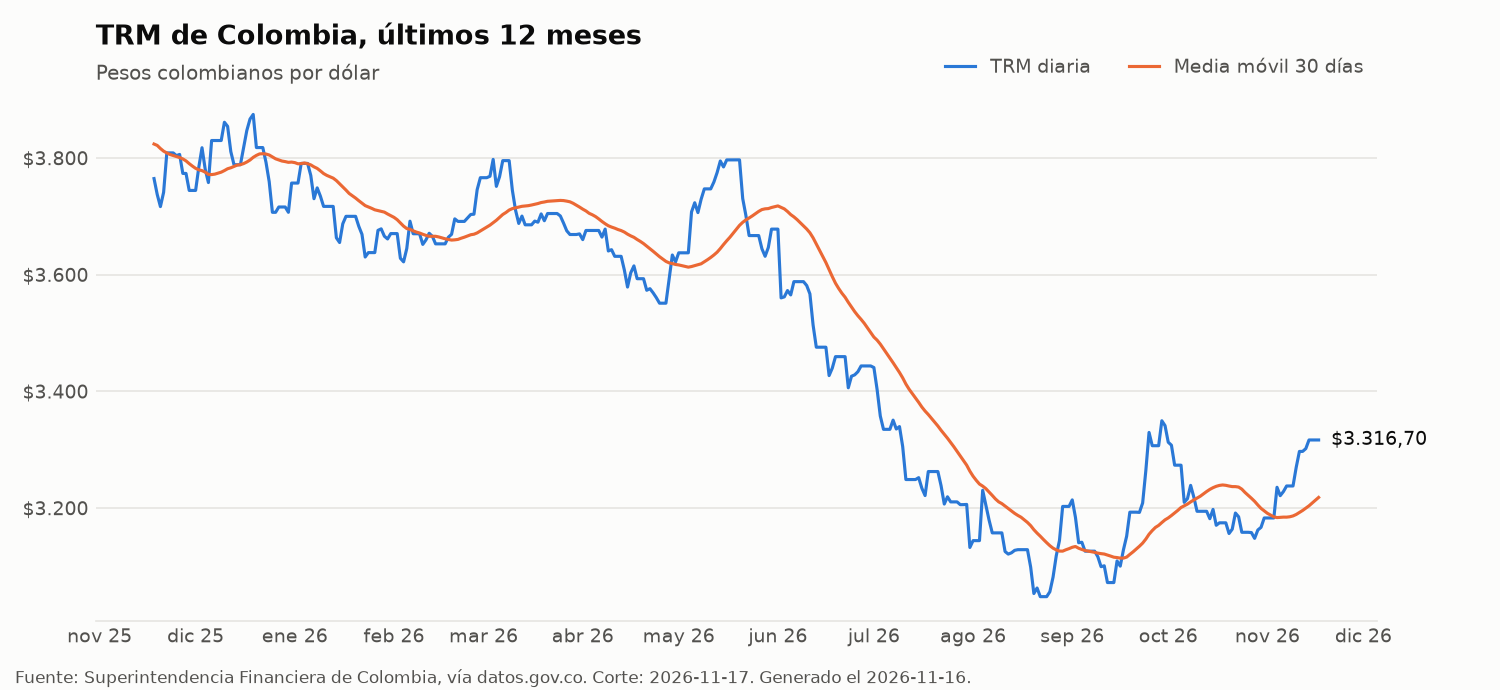
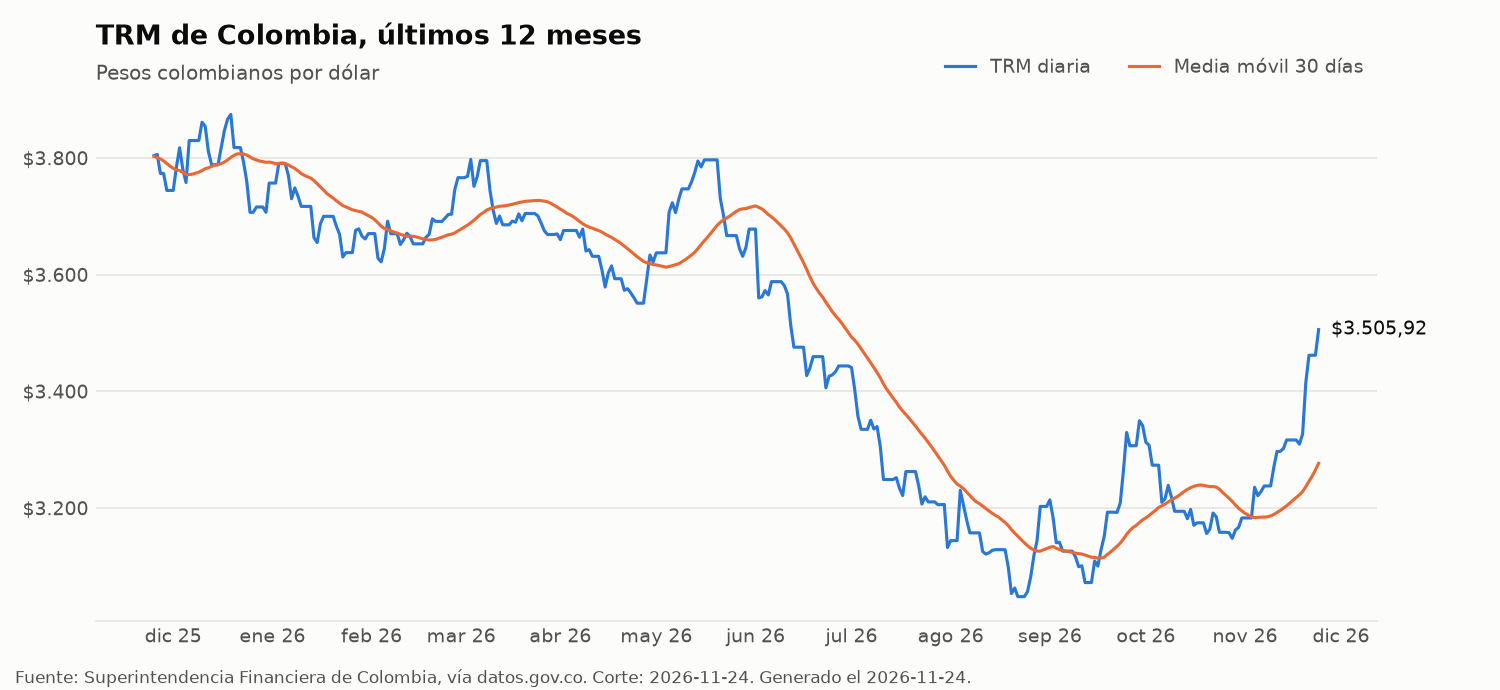
Actualiza datos y gráfico de la TRM [skip ci]

diff --git a/docs/resumen.md b/docs/resumen.md
@@ -4,9 +4,9 @@ Este archivo lo genera el pipeline en cada ejecución. Fuente: Superintendencia 
 
 | Indicador | Valor |
 | --- | --- |
-| Fecha de corte | 2026-11-17 |
-| TRM actual | $3.316,70 |
+| Fecha de corte | 2026-11-24 |
+| TRM actual | $3.505,92 |
 | Mínimo 52 semanas | $3.048,12 |
 | Máximo 52 semanas | $3.874,71 |
-| Variación en lo corrido del año | -11,72 % |
-| Días en la bodega | 12.770 |
+| Variación en lo corrido del año | -6,68 % |
+| Días en la bodega | 12.777 |
